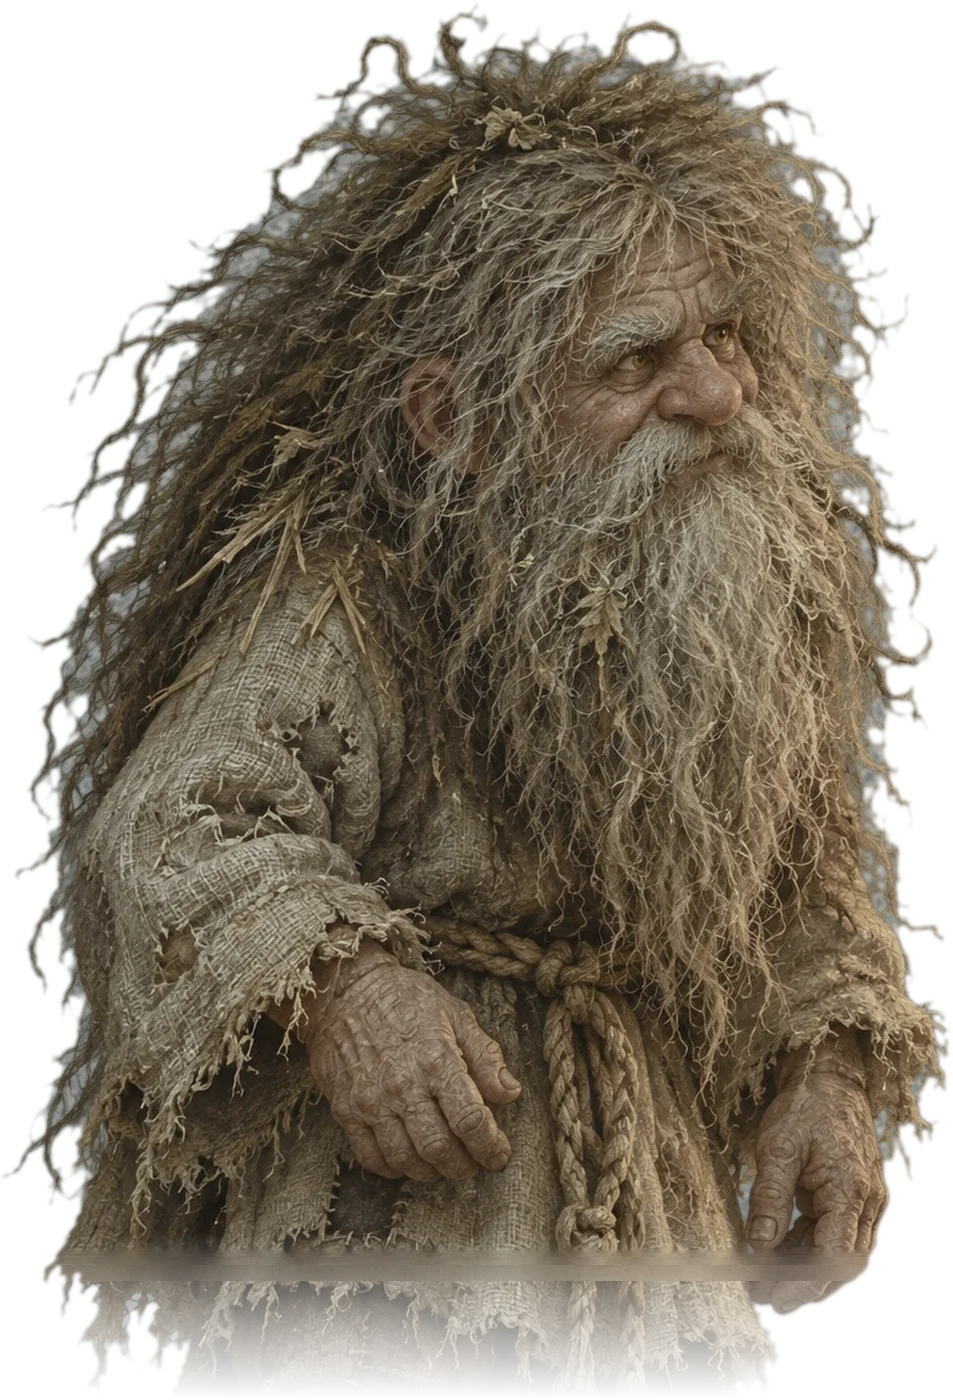
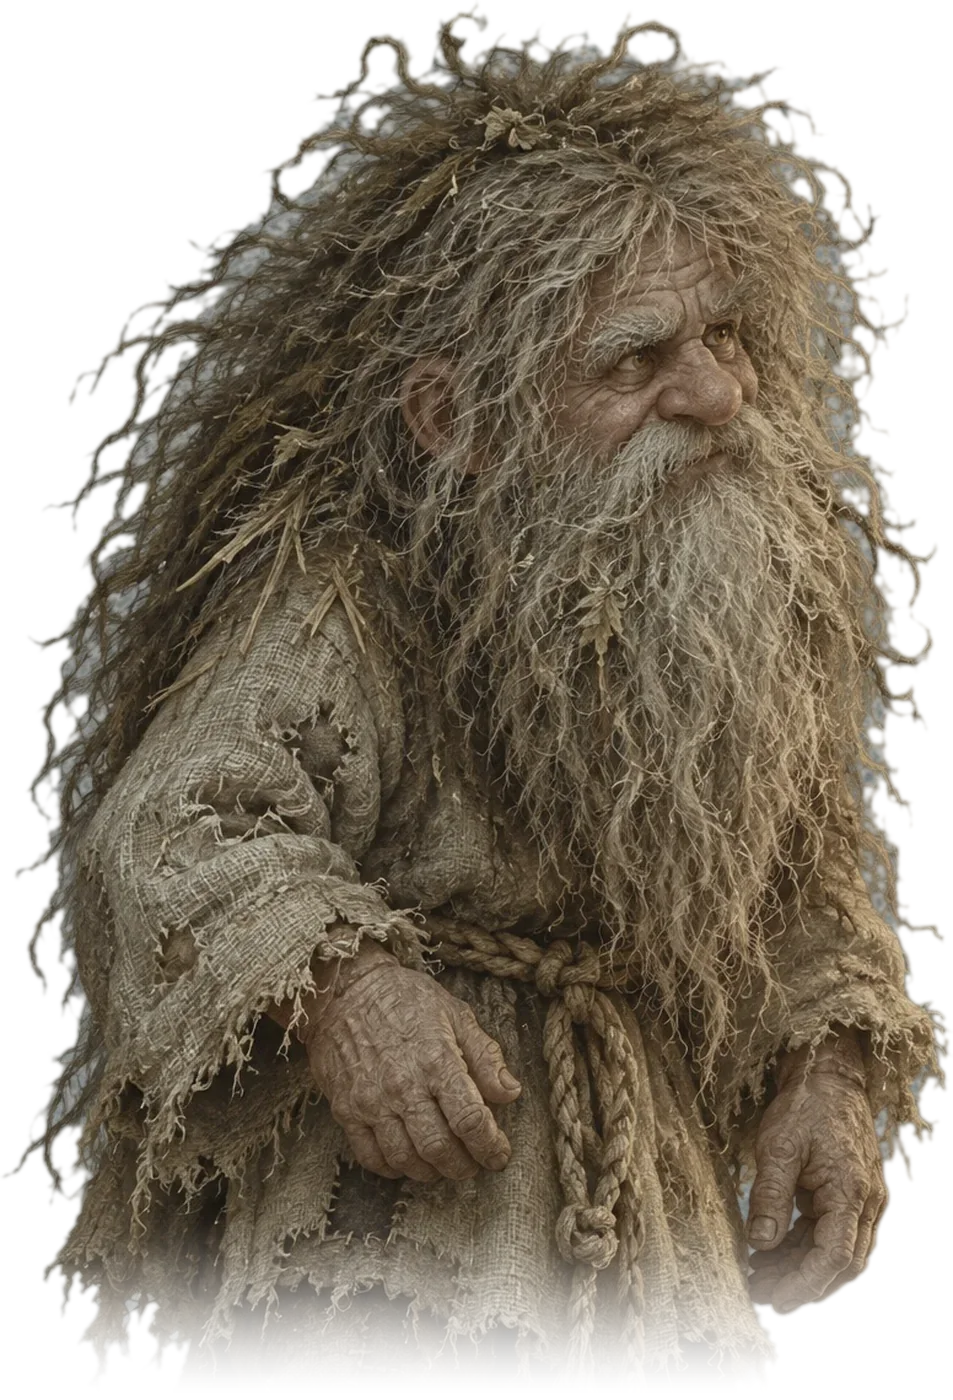
Recut Leshy to match the painted cast; drop the white dust specks
Leshy: no straight crop on the left, tighter edge without the light fringe,
gentle painterly pass and muted warm grade like the other portraits.
Portrait bottom fades are now applied after grading, which removes the light
seam across Leshy, Poludnitsa and Domovoi portraits. Daytime and evening
outdoor dust particles are gone; they read as stray white pixels.

Claude-Session: https://claude.ai/code/session_01CtZJh69VWZfWKL7tGv8hTq

diff --git a/zavetye/js/render.js b/zavetye/js/render.js
@@ -523,7 +523,7 @@ function drawNoonArt(g, x0){
     gr = g.createRadialGradient(bx, by, 0, bx, by, 12); gr.addColorStop(0, 'rgba(255,255,255,.95)'); gr.addColorStop(1, 'rgba(255,255,255,0)'); g.fillStyle = gr; g.fillRect(bx - 12, by - 12, 24, 24);
     g.strokeStyle = 'rgba(255,255,255,.6)'; g.lineWidth = .7; g.beginPath(); g.moveTo(bx - 9, by); g.lineTo(bx + 9, by); g.moveTo(bx, by - 9); g.lineTo(bx, by + 9); g.stroke(); }
   // пыльца в горячем воздухе
-  for(let i = 0; i < 18; i++){ const t = (T * (.05 + .05 * _rnd(i)) + _rnd(i + 50)) % 1, px = x + (_rnd(i + 9) - .5) * 170 + Math.sin(T + i) * 6, py = base + 10 - t * (H + 50), a = Math.sin(Math.PI * t) * .45;
+  for(let i = 0; i < 18; i++){ const t = (T * (.05 + .05 * _rnd(i)) + _rnd(i + 50)) % 1, px = x + (_rnd(i + 9) - .5) * 170 + Math.sin(T + i) * 6, py = base + 10 - t * (H + 50), a = Math.sin(Math.PI * t) * .2;
     g.fillStyle = `rgba(255,244,205,${a})`; g.beginPath(); g.arc(px, py, .8 + _rnd(i + 3), 0, Math.PI * 2); g.fill(); }
   g.restore();
 }

diff --git a/zavetye/js/draw.js b/zavetye/js/draw.js
@@ -207,8 +207,7 @@ function drawParticles(g, v){
   const ph = phaseOf(v), indoor = STRIPS[v.strip].indoor;
   for(const p of PARTS){
     if(ph === 3 && !indoor){ const a = Math.max(0, Math.sin(p.t * 1.7)); if(a < .05) continue; glow(p.x, p.y + 80, 14, a * .8, '255,230,120'); circ(g, p.x, p.y + 80, 2, '#ffe68a', .8); }
-    else if(ph === 2 && !indoor){ g.fillStyle = 'rgba(255,220,160,.5)'; g.fillRect(p.x, p.y, 2, 2); }
-    else if(ph === 1 && !indoor){ circ(g, p.x, p.y, 1.6, '#fff4c8', 0); }
+    // днём и вечером на улице пылинок нет: на картине они выглядели как белые точки-соринки
     else if(indoor){ g.fillStyle = 'rgba(255,240,200,.35)'; g.fillRect(p.x, p.y, 1.8, 1.8); }
   }
 }
